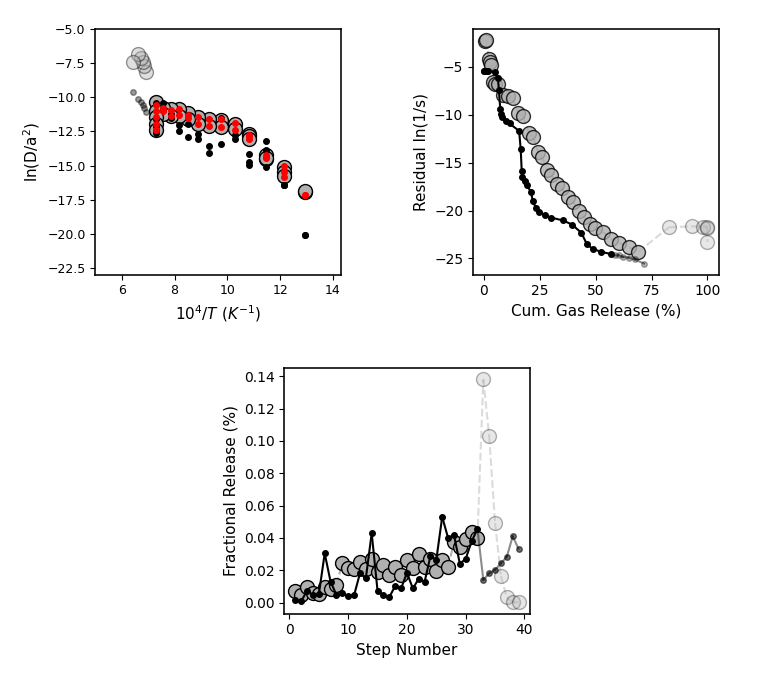
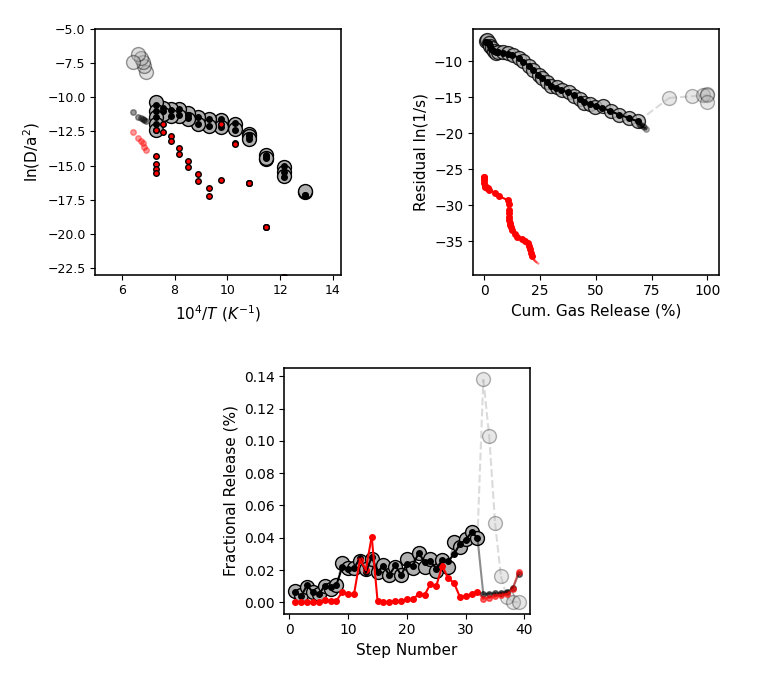
schematic plot changes

diff --git a/utils/plot_results_schematic.py b/utils/plot_results_schematic.py
@@ -31,6 +31,7 @@ def plot_results_schematic(
 
     R = 0.008314
     params = torch.tensor(params)
+    params2 = torch.tensor(params2)
 
     # Remove the moles parameter if not needed for plotting
     if len(params) % 2 != 0:
@@ -164,6 +165,7 @@ def plot_results_schematic(
     
     color_best_fit = "black"
     color_else = 'red'
+    color_else_edge = 'black'
     # Plot the MDD Model ln(D/a^2) values that were included
     plt.plot(
         T_plot[included],
@@ -183,7 +185,7 @@ def plot_results_schematic(
         markersize=marker_size_modeled, 
         color=color_else, 
         linewidth=1, 
-        mec=color_else,
+        mec=color_else_edge,
         zorder = 2
     )
   
@@ -193,9 +195,22 @@ def plot_results_schematic(
         pd.Series(lnd0aa_MDD[omitted].tolist()),
          "o", 
          markersize=marker_size_modeled, 
-         color='black', 
+         color=color_best_fit, 
          linewidth=1, 
-         mec='black',
+         mec=color_best_fit,
+         zorder = 2,
+         alpha = 0.4
+    )
+
+        # Plot the MDD Model ln(D/a^2) values that were omitted
+    plt.plot(
+        T_plot[omitted],
+        pd.Series(lnd0aa_MDD2[omitted].tolist()),
+         "o", 
+         markersize=marker_size_modeled, 
+         color=color_else, 
+         linewidth=1, 
+         mec=color_else,
          zorder = 2,
          alpha = 0.4
     )
@@ -252,6 +267,9 @@ def plot_results_schematic(
     temp = Fi_MDD[1:] - Fi_MDD[0:-1]
     Fi_MDD = np.insert(temp, 0, Fi_MDD[0])
 
+    temp = Fi_MDD2[1:] - Fi_MDD2[0:-1]
+    Fi_MDD2 = np.insert(temp, 0, Fi_MDD2[0])
+
     # Get gas fractions from laboratory experiment and put in non-cumulative space
     Fi = np.array(dataset["Fi"])
     temp = Fi[1:] - Fi[0:-1]
@@ -289,11 +307,22 @@ def plot_results_schematic(
                     Fi_MDD[included], 
                     "o", 
                     markersize=marker_size_modeled, 
-                    color='black', 
+                    color=color_best_fit, 
                     linewidth=1, 
-                    mec='black',
+                    mec=color_best_fit,
                     zorder = 10
                     )
+
+    plt.plot(included+1, 
+                    Fi_MDD2[included], 
+                    "o", 
+                    markersize=marker_size_modeled, 
+                    color=color_else, 
+                    linewidth=1, 
+                    mec=color_else,
+                    zorder = 10
+                    )
+
 
 
     # Plot T_plot vs the modeled gas fraction observed at each step that was omitted
@@ -301,11 +330,23 @@ def plot_results_schematic(
                     Fi_MDD[omitted], 
                     "o", 
                     markersize=marker_size_modeled, 
-                    color='black', 
+                    color=color_best_fit, 
                     linewidth=1, 
                     mec='black',
                     zorder = 10,
                     alpha = 0.55
+                    )
+    
+        # Plot T_plot vs the modeled gas fraction observed at each step that was omitted
+    plt.plot(omitted+1, 
+                    Fi_MDD2[omitted], 
+                    "o", 
+                    markersize=marker_size_modeled, 
+                    color=color_else, 
+                    linewidth=1, 
+                    mec=color_else,
+                    zorder = 10,
+                    alpha = 0.6
                     )
 
     # This loop draws lines between the points and makes them transparent depending on whether 
@@ -317,7 +358,8 @@ def plot_results_schematic(
                 alpha_val = 1.
             plt.plot(range(i+1,i+3),
                      Fi_MDD[i:i+2],
-                     'k-',
+                     '-',
+                     color = color_best_fit,
                      alpha = alpha_val,
                      zorder = 10
                      )
@@ -328,6 +370,21 @@ def plot_results_schematic(
                      alpha = alpha_val,
                      zorder = 1
                      )
+            
+
+    for i in range(len(Fi_MDD2)-1):
+        if i in omitted or i+1 in omitted:
+            alpha_val = .45
+        else:
+            alpha_val = 1.
+        plt.plot(range(i+1,i+3),
+                    Fi_MDD2[i:i+2],
+                    '-',
+                    color = color_else,
+                    alpha = alpha_val,
+                    zorder = 10
+                    )
+
     # Label axes
     plt.xlabel("Step Number",fontsize = label_size)
     plt.ylabel("Fractional Release (%)", fontsize = label_size)
@@ -339,12 +396,17 @@ def plot_results_schematic(
     # Calculate the residual using the highest-retentivity domain as a reference for both 
     # the model and experimental data
     m = params[0]/83.14 #Activation energy (kJ/mol) / gas constant
+    m2 = params[0]/83.14
     resid_exp = dataset["ln(D/a^2)"] - (-m.item() * T_plot + params[1].item())
     resid_model = np.array(lnd0aa_MDD.ravel()) - (-m.item() *T_plot + params[1].item())
+    resid_model2 = np.array(lnd0aa_MDD.ravel()) - (-m.item() *T_plot + params2[1].item())
 
     # Plot the values of residuals that were included in the fit calculated against the experimental results
     cum_Fi_MDD = np.cumsum(Fi_MDD)
+    cum_Fi_MDD2 = np.cumsum(Fi_MDD2)
     cum_Fi_exp = np.cumsum(Fi)
+
+
     plt.plot(cum_Fi_exp[included] * 100, 
                     resid_exp[included], 'o', markersize=marker_size_measured, 
                     color= (0.69,0.69,0.69), 
@@ -363,9 +425,18 @@ def plot_results_schematic(
     plt.plot(cum_Fi_MDD[included] * 100, 
              resid_model[included], 
                     "o", markersize=marker_size_modeled, 
-                    color='black',  
+                    color=color_best_fit,  
                     linewidth=1, 
-                    mec='black'
+                    mec=color_best_fit
+                    )
+    
+    # Plot the values of residuals that were included in the fit calculated against the model results
+    plt.plot(cum_Fi_MDD2[included] * 100, 
+             resid_model2[included], 
+                    "o", markersize=marker_size_modeled, 
+                    color=color_else,  
+                    linewidth=1, 
+                    mec=color_else
                     )
     
     # Plot the values of residuals that were excluded in the fit calculated against the model results
@@ -387,10 +458,20 @@ def plot_results_schematic(
                 alpha_val = 1.
             plt.plot(cum_Fi_MDD[i:i+2]*100,
                      resid_model[i:i+2],
-                     'k-',
+                     '-',
+                     color = color_best_fit,
                      alpha = alpha_val,
                      zorder = 250
                      )
+            plt.plot(cum_Fi_MDD2[i:i+2]*100,
+                     resid_model2[i:i+2],
+                     '-',
+                     color = color_else,
+                     alpha = alpha_val,
+                     zorder = 250
+                     )
+
+
             plt.plot(cum_Fi_exp[i:i+2]*100,
                      resid_exp[i:i+2],
                      '--',

diff --git a/make_schematic_fig.py b/make_schematic_fig.py
@@ -44,15 +44,24 @@ objective = DiffusionObjective(
     punish_degas_early = False
 )
 
-
+#This is intermed fit
 params = [1.73365444341471E-13, 3.91457517581200E+02,	4.62200768821121E+01,	3.90180663316288E+01	,3.28200751498657E+01,	2.72285786410262E+01	,2.24478990017536E+01	,6.93795393437542E+00,	4.81875188588035E+00,	2.22805911996708E-01,	6.39612889665484E-02,	9.76777710994787E-02,	3.73290912608320E-02	,1.98939822739980E-01,	3.52387260186070E-01,	7.29078123887070E-02,	4.66218454753439E-02]
-# ,	is the first sample
+
+#this is worst fit
+params1 = [1.7332814404239300E-13,	4.3625792437162800E+02,	4.4997453203737200E+01	,3.1475697831619500E+01	,2.6398255152334900E+01	,2.3432882901589000E+01,	6.0129005083099300E+00	,1.2571071326723400E+00,	-2.0987599849879600E+00	,-4.9711348074793700E+00,	1.0908137802291900E-01,	8.2590722138495200E-02	,3.3571556280807300E-02	,6.6995688948818400E-02	,1.0530161409535700E-01	,8.1538266974763000E-02,	4.8281472849321400E-01]
+
+#This is the best fit
 params2 = [1.7335919758298300E-13,	2.3189073010813800E+02,	2.6251841848151600E+01,	2.1212999311369100E+01,	1.9360490192813100E+01,	1.7357623723095800E+01,	1.4601210564204800E+01,	1.2006746923701400E+01,	9.9090160260554200E+00,	6.1410253290117200E+00	,1.4731298071697900E-02,	9.1858194497943800E-02,	7.6978378926125000E-02,	5.3190109725817200E-02,	1.1373554232599200E-01,	1.3034019126261000E-01,	1.7098732703281100E-01]
+
+
+
+
+
 plot_results_schematic(
-    params,
+    params2,
     dataset,
     objective,
-    params2,
+    params1,
     plot_path = dir_path+"/schematic_fig"
     
 )
